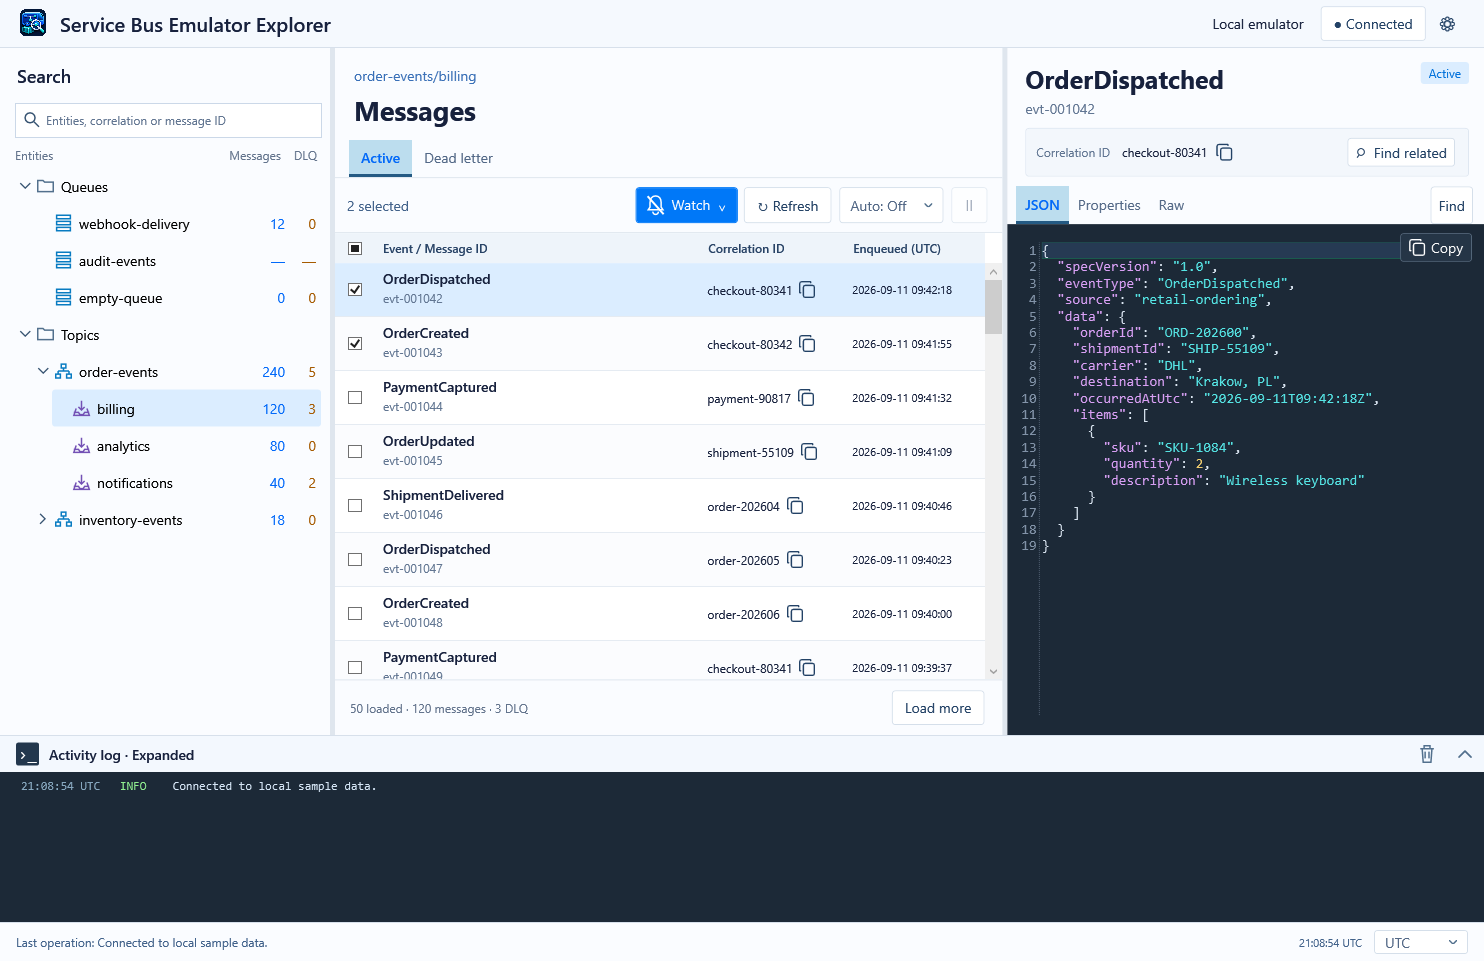
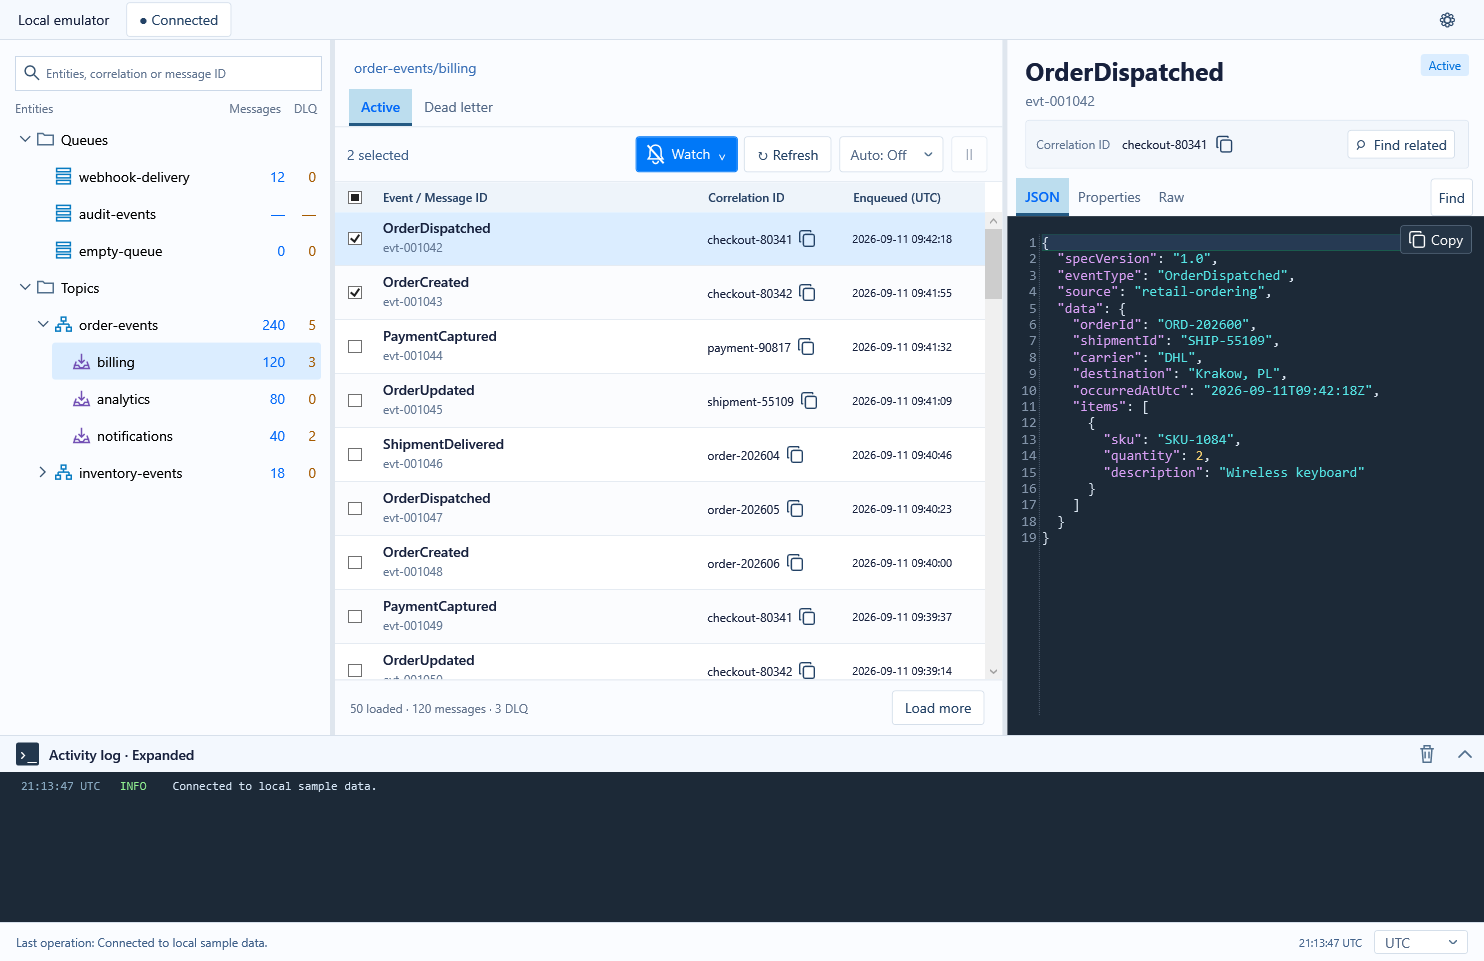
Simplify workspace headings and connection toolbar

diff --git a/tools/ServiceBusEmulatorExplorer.InvestigationPrototype/PrototypeWindow.xaml b/tools/ServiceBusEmulatorExplorer.InvestigationPrototype/PrototypeWindow.xaml
@@ -63,19 +63,17 @@
   </HierarchicalDataTemplate>
  </Window.Resources>
  <Grid Background="#FAFCFF">
-  <Grid.RowDefinitions><RowDefinition Height="48"/><RowDefinition Height="*"/><RowDefinition Height="Auto"/><RowDefinition Height="Auto"/></Grid.RowDefinitions>
+  <Grid.RowDefinitions><RowDefinition Height="40"/><RowDefinition Height="*"/><RowDefinition Height="Auto"/><RowDefinition Height="Auto"/></Grid.RowDefinitions>
   <Border Background="#F5F9FE" BorderBrush="#D7E0EB" BorderThickness="0,0,0,1">
    <DockPanel Margin="18,0" LastChildFill="False">
-    <StackPanel Orientation="Horizontal" VerticalAlignment="Center"><Image Source="Assets/AppIcon.png" Width="30" Height="30" Margin="0,0,12,0"/><TextBlock Text="Service Bus Emulator Explorer" FontSize="20" FontWeight="SemiBold" VerticalAlignment="Center"/></StackPanel>
-    <StackPanel DockPanel.Dock="Right" Orientation="Horizontal" VerticalAlignment="Center"><TextBlock x:Name="ConnectionName" Text="Local emulator" MaxWidth="180" TextTrimming="CharacterEllipsis" Margin="10,0,14,0" VerticalAlignment="Center"/><Button x:Name="ConnectionButton" Content="{Binding ConnectionLabel}" Click="Connection_Click" AutomationProperties.AutomationId="ConnectionButton" AutomationProperties.Name="Toggle simulated connection"/><Button x:Name="WatchSummaryButton" Visibility="Collapsed" Click="WatchSummary_Click" Padding="8,3" Background="Transparent" BorderThickness="0" ToolTip="Watch notifications" AutomationProperties.Name="Watch notifications"><StackPanel Orientation="Horizontal"><Path Data="M10,2 C6,2 4,5 4,9 V14 L2,17 H18 L16,14 V9 C16,5 14,2 10,2 Z M7,19 A3,3 0 0 0 13,19 Z" Fill="#0078F8" Width="18" Height="20" Stretch="Uniform"/><TextBlock x:Name="WatchCount" Text="0" Foreground="#0078F8" FontWeight="SemiBold" FontSize="11" Margin="5,0,0,0" VerticalAlignment="Center"/></StackPanel></Button><Button Content="⚙" Click="Settings_Click" Padding="6,2" Background="Transparent" BorderThickness="0" ToolTip="Settings" AutomationProperties.Name="Settings"/></StackPanel>
+    <StackPanel DockPanel.Dock="Left" Orientation="Horizontal" VerticalAlignment="Center"><TextBlock x:Name="ConnectionName" Text="Local emulator" MaxWidth="180" TextTrimming="CharacterEllipsis" Margin="0,0,14,0" VerticalAlignment="Center"/><Button x:Name="ConnectionButton" Content="{Binding ConnectionLabel}" Click="Connection_Click" AutomationProperties.AutomationId="ConnectionButton" AutomationProperties.Name="Toggle simulated connection"/></StackPanel><StackPanel DockPanel.Dock="Right" Orientation="Horizontal" VerticalAlignment="Center"><Button x:Name="WatchSummaryButton" Visibility="Collapsed" Click="WatchSummary_Click" Padding="8,3" Background="Transparent" BorderThickness="0" ToolTip="Watch notifications" AutomationProperties.Name="Watch notifications"><StackPanel Orientation="Horizontal"><Path Data="M10,2 C6,2 4,5 4,9 V14 L2,17 H18 L16,14 V9 C16,5 14,2 10,2 Z M7,19 A3,3 0 0 0 13,19 Z" Fill="#0078F8" Width="18" Height="20" Stretch="Uniform"/><TextBlock x:Name="WatchCount" Text="0" Foreground="#0078F8" FontWeight="SemiBold" FontSize="11" Margin="5,0,0,0" VerticalAlignment="Center"/></StackPanel></Button><Button Content="⚙" Click="Settings_Click" Padding="6,2" Background="Transparent" BorderThickness="0" ToolTip="Settings" AutomationProperties.Name="Settings"/></StackPanel>
    </DockPanel>
   </Border>
   <Grid Grid.Row="1"><Grid.ColumnDefinitions><ColumnDefinition Width="330" MinWidth="240" MaxWidth="420"/><ColumnDefinition Width="5"/><ColumnDefinition Width="*"/></Grid.ColumnDefinitions>
-   <Grid Margin="15,16,8,8"><Grid.RowDefinitions><RowDefinition Height="Auto"/><RowDefinition Height="Auto"/><RowDefinition Height="Auto"/><RowDefinition Height="*"/></Grid.RowDefinitions>
-    <TextBlock Text="Search" FontSize="18" FontWeight="SemiBold" Margin="2,0,0,15"/>
-    <TextBox x:Name="SearchBox" Grid.Row="1" Padding="30,7,35,7" TextChanged="Search_Changed" PreviewKeyDown="SearchKeyDown" GotKeyboardFocus="SearchFocused" ToolTip="Search entities, correlation IDs or message IDs across this connection" AutomationProperties.Name="Search all entities and messages" AutomationProperties.AutomationId="SearchBox"/>
-    <Path Grid.Row="1" Data="M10,5 A5,5 0 1 1 0,5 A5,5 0 1 1 10,5 M9,9 L14,14" Stroke="#365371" StrokeThickness="1.5" Width="15" Height="15" HorizontalAlignment="Left" VerticalAlignment="Center" Margin="10,0"/>
-    <Button x:Name="ClearSearchButton" Grid.Row="1" HorizontalAlignment="Right" Width="30" Margin="2" Padding="0" Background="Transparent" BorderThickness="0" Visibility="Collapsed" Click="ClearSearch_Click" ToolTip="Clear search and return to browsing" AutomationProperties.Name="Clear search" AutomationProperties.AutomationId="ClearSearchButton"><Path Data="M0,0 L10,10 M10,0 L0,10" Width="10" Height="10" Stroke="#52708D" StrokeThickness="1.8"/></Button>
+   <Grid Margin="15,16,8,8"><Grid.RowDefinitions><RowDefinition Height="Auto"/><RowDefinition Height="Auto"/><RowDefinition Height="*"/></Grid.RowDefinitions>
+    <TextBox x:Name="SearchBox" Grid.Row="0" Padding="30,7,35,7" TextChanged="Search_Changed" PreviewKeyDown="SearchKeyDown" GotKeyboardFocus="SearchFocused" ToolTip="Search entities, correlation IDs or message IDs across this connection" AutomationProperties.Name="Search all entities and messages" AutomationProperties.AutomationId="SearchBox"/>
+    <Path Grid.Row="0" Data="M10,5 A5,5 0 1 1 0,5 A5,5 0 1 1 10,5 M9,9 L14,14" Stroke="#365371" StrokeThickness="1.5" Width="15" Height="15" HorizontalAlignment="Left" VerticalAlignment="Center" Margin="10,0"/>
+    <Button x:Name="ClearSearchButton" Grid.Row="0" HorizontalAlignment="Right" Width="30" Margin="2" Padding="0" Background="Transparent" BorderThickness="0" Visibility="Collapsed" Click="ClearSearch_Click" ToolTip="Clear search and return to browsing" AutomationProperties.Name="Clear search" AutomationProperties.AutomationId="ClearSearchButton"><Path Data="M0,0 L10,10 M10,0 L0,10" Width="10" Height="10" Stroke="#52708D" StrokeThickness="1.8"/></Button>
     <Popup x:Name="SuggestionsPopup" PlacementTarget="{Binding ElementName=SearchBox}" Placement="Bottom" StaysOpen="False" AllowsTransparency="True">
      <Border Width="420" Background="White" BorderBrush="#CBD8E8" BorderThickness="1" CornerRadius="3" Padding="0,5">
       <ListBox x:Name="SuggestionsList" BorderThickness="0" MaxHeight="440" ScrollViewer.HorizontalScrollBarVisibility="Disabled" PreviewKeyDown="SuggestionKeyDown" PreviewMouseLeftButtonUp="SuggestionPicked" AutomationProperties.Name="Grouped search suggestions">
@@ -85,15 +83,15 @@
       </ListBox>
      </Border>
     </Popup>
-    <TextBlock Grid.Row="1" Text="Entities, correlation or message ID" FontSize="12" Foreground="#627692" Margin="31,0,35,0" VerticalAlignment="Center" IsHitTestVisible="False"><TextBlock.Style><Style TargetType="TextBlock"><Setter Property="Visibility" Value="Collapsed"/><Style.Triggers><DataTrigger Binding="{Binding Text, ElementName=SearchBox}" Value=""><Setter Property="Visibility" Value="Visible"/></DataTrigger></Style.Triggers></Style></TextBlock.Style></TextBlock>
-    <Grid Grid.Row="2" Margin="0,9,5,4"><Grid.ColumnDefinitions><ColumnDefinition Width="*"/><ColumnDefinition Width="65"/><ColumnDefinition Width="36"/></Grid.ColumnDefinitions><TextBlock Text="Entities" Foreground="#63748D" FontSize="12"/><TextBlock Grid.Column="1" Text="Messages" HorizontalAlignment="Right" Foreground="#63748D" FontSize="12"/><TextBlock Grid.Column="2" Text="DLQ" HorizontalAlignment="Right" Foreground="#63748D" FontSize="12"/></Grid>
-    <TreeView x:Name="NamespaceTree" Grid.Row="3" ItemsSource="{Binding Roots}" SelectedItemChanged="Tree_Selected" BorderThickness="0" Background="Transparent" ScrollViewer.HorizontalScrollBarVisibility="Disabled" AutomationProperties.Name="Namespace entities" AutomationProperties.AutomationId="NamespaceTree"/>
-    <TextBlock x:Name="NamespaceEmpty" Grid.Row="3" Text="No matching entities. Clear the search to show all entities." TextWrapping="Wrap" Foreground="#617693" Margin="10,15" VerticalAlignment="Top" Visibility="Collapsed"/>
+    <TextBlock Grid.Row="0" Text="Entities, correlation or message ID" FontSize="12" Foreground="#627692" Margin="31,0,35,0" VerticalAlignment="Center" IsHitTestVisible="False"><TextBlock.Style><Style TargetType="TextBlock"><Setter Property="Visibility" Value="Collapsed"/><Style.Triggers><DataTrigger Binding="{Binding Text, ElementName=SearchBox}" Value=""><Setter Property="Visibility" Value="Visible"/></DataTrigger></Style.Triggers></Style></TextBlock.Style></TextBlock>
+    <Grid Grid.Row="1" Margin="0,9,5,4"><Grid.ColumnDefinitions><ColumnDefinition Width="*"/><ColumnDefinition Width="65"/><ColumnDefinition Width="36"/></Grid.ColumnDefinitions><TextBlock Text="Entities" Foreground="#63748D" FontSize="12"/><TextBlock Grid.Column="1" Text="Messages" HorizontalAlignment="Right" Foreground="#63748D" FontSize="12"/><TextBlock Grid.Column="2" Text="DLQ" HorizontalAlignment="Right" Foreground="#63748D" FontSize="12"/></Grid>
+    <TreeView x:Name="NamespaceTree" Grid.Row="2" ItemsSource="{Binding Roots}" SelectedItemChanged="Tree_Selected" BorderThickness="0" Background="Transparent" ScrollViewer.HorizontalScrollBarVisibility="Disabled" AutomationProperties.Name="Namespace entities" AutomationProperties.AutomationId="NamespaceTree"/>
+    <TextBlock x:Name="NamespaceEmpty" Grid.Row="2" Text="No matching entities. Clear the search to show all entities." TextWrapping="Wrap" Foreground="#617693" Margin="10,15" VerticalAlignment="Top" Visibility="Collapsed"/>
    </Grid>
    <GridSplitter Grid.Column="1" Width="5" HorizontalAlignment="Stretch" Background="#DFE6EE" AutomationProperties.Name="Resize namespace pane"/>
    <Grid x:Name="ContentGrid" Grid.Column="2"><Grid.ColumnDefinitions><ColumnDefinition Width="1.1*" MinWidth="370"/><ColumnDefinition Width="5"/><ColumnDefinition Width="1*" MinWidth="380"/></Grid.ColumnDefinitions><Grid.RowDefinitions><RowDefinition Height="*"/><RowDefinition Height="0"/><RowDefinition Height="0"/></Grid.RowDefinitions>
     <Grid x:Name="ListPane"><Grid.RowDefinitions><RowDefinition Height="Auto"/><RowDefinition Height="Auto"/><RowDefinition Height="Auto"/><RowDefinition Height="*"/><RowDefinition Height="Auto"/></Grid.RowDefinitions>
-     <StackPanel x:Name="ListHeading" Margin="19,18,15,12"><TextBlock x:Name="ListBreadcrumb" Text="{Binding EntityPath}" Foreground="#3970B8" TextTrimming="CharacterEllipsis"/><TextBlock x:Name="MessagesHeading" Text="Messages" FontSize="27" FontWeight="Bold" Margin="0,7,0,0"/><TextBlock x:Name="SearchSummary" Foreground="#617693" Margin="0,6,0,0" Visibility="Collapsed"/></StackPanel>
+     <StackPanel x:Name="ListHeading" Margin="19,18,15,12"><TextBlock x:Name="ListBreadcrumb" Text="{Binding EntityPath}" Foreground="#3970B8" TextTrimming="CharacterEllipsis"/><TextBlock x:Name="SearchSummary" Foreground="#617693" Margin="0,6,0,0" Visibility="Collapsed"/></StackPanel>
      <StackPanel x:Name="BrowseTabs" Grid.Row="1" Orientation="Horizontal" Margin="14,0"><ToggleButton x:Name="ActiveTab" Content="Active" IsChecked="True" Click="Active_Click" AutomationProperties.AutomationId="ActiveTab"/><ToggleButton x:Name="DeadLetterTab" Content="Dead letter" Click="DeadLetter_Click" AutomationProperties.AutomationId="DeadLetterTab"/></StackPanel>
      <Border x:Name="SearchStatusPanel" Grid.Row="1" Margin="18,0,15,12" Padding="10,8" Background="#EAF4FF" BorderBrush="#C9DFFF" BorderThickness="1" CornerRadius="3" Visibility="Collapsed"><DockPanel><Button x:Name="StopSearchButton" DockPanel.Dock="Right" Content="■  Stop" Click="StopSearch_Click" Padding="10,4" AutomationProperties.AutomationId="StopSearchButton"/><TextBlock x:Name="SearchStatusText" Text="{Binding SearchStatus}" Foreground="#2766B3" TextWrapping="Wrap" VerticalAlignment="Center"/></DockPanel></Border>
      <Border x:Name="ListToolbar" Grid.Row="2" BorderBrush="#DFE6EE" BorderThickness="0,1" Padding="12,9"><DockPanel LastChildFill="False"><TextBlock Text="{Binding SelectedCount, StringFormat={}{0} selected}" VerticalAlignment="Center" Foreground="#42638C" DockPanel.Dock="Left"/>

diff --git a/tools/ServiceBusEmulatorExplorer.InvestigationPrototype/CorrelationInteractions.cs b/tools/ServiceBusEmulatorExplorer.InvestigationPrototype/CorrelationInteractions.cs
@@ -91,7 +91,6 @@ public partial class PrototypeWindow
             : "No matching entities. Clear the search to show all entities.";
         NamespaceTree.ToolTip = searching ? "Counts show matching messages found so far. Clear search to restore entity totals." : null;
         ListBreadcrumb.Text = searching ? "Search / Related messages" : Workspace.EntityPath;
-        MessagesHeading.Text = searching ? "Related messages" : "Messages";
         SearchSummary.Text = $"{Workspace.CorrelationQuery} · {Workspace.Messages.Count} matches{(Workspace.SearchComplete ? "" : " so far")}";
         SearchSummary.Visibility = searching && !compact ? Visibility.Visible : Visibility.Collapsed;
         BrowseTabs.Visibility = searching ? Visibility.Collapsed : Visibility.Visible;

diff --git a/tools/ServiceBusEmulatorExplorer.InvestigationPrototype/PrototypeWindow.xaml.cs b/tools/ServiceBusEmulatorExplorer.InvestigationPrototype/PrototypeWindow.xaml.cs
@@ -370,7 +370,6 @@ public partial class PrototypeWindow : Window
         LoadMoreButton.Padding = shortWindow ? new Thickness(8, 4, 8, 4) : new Thickness(12, 7, 12, 7);
         EmptySearchIcon.Visibility = shortWindow ? Visibility.Collapsed : Visibility.Visible;
         EmptyResults.Margin = shortWindow ? new Thickness(12) : new Thickness(25);
-        MessagesHeading.Visibility = compact ? Visibility.Collapsed : Visibility.Visible;
         ListHeading.Margin = compact ? new Thickness(15, 9, 15, 8) : new Thickness(19, 18, 15, 12);
         InspectorHeading.Margin = compact ? new Thickness(15, 8, 15, 5) : new Thickness(18, 14, 15, 10);
         InspectorTitle.FontSize = compact ? 18 : 25;
